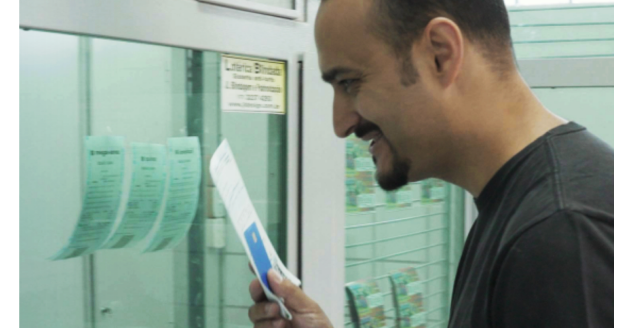
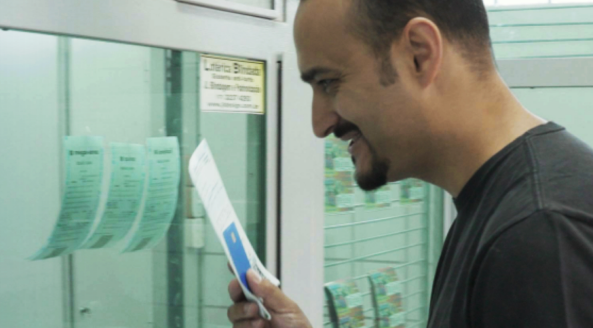
fix carousel

diff --git a/src/components/ServicesSection.tsx b/src/components/ServicesSection.tsx
@@ -64,7 +64,7 @@ export default function ServicesSection() {
               const s = variantStyles[card.variant];
               return (
                 <div key={card.title} className={`shrink-0 w-[294px] h-[343px] rounded-xl overflow-hidden shadow-[0_4px_10px_rgba(0,0,0,0.08)] ${s.bg}`}>
-                  <div className="relative w-full h-48">
+                  <div className="relative w-full h-[162px]">
                     <Image
                       src={card.image}
                       alt={card.title}
@@ -74,8 +74,8 @@ export default function ServicesSection() {
                   </div>
                   <div className="p-5 flex flex-col gap-6">
                     <div className="flex flex-col gap-2">
-                      <h3 className={`text-lg font-semibold ${s.title}`}>{card.title}</h3>
-                      <p className={`text-base leading-[1.4] ${s.text}`}>{card.description}</p>
+                      <h3 className={`text-lg font-normal ${s.title}`}>{card.title}</h3>
+                      <p className={`text-sm leading-[1.4] ${s.text}`}>{card.description}</p>
                     </div>
                     <a href="#" className={`inline-flex items-center gap-2 text-sm font-semibold hover:opacity-80 transition-opacity ${s.link}`}>
                       Saiba mais
